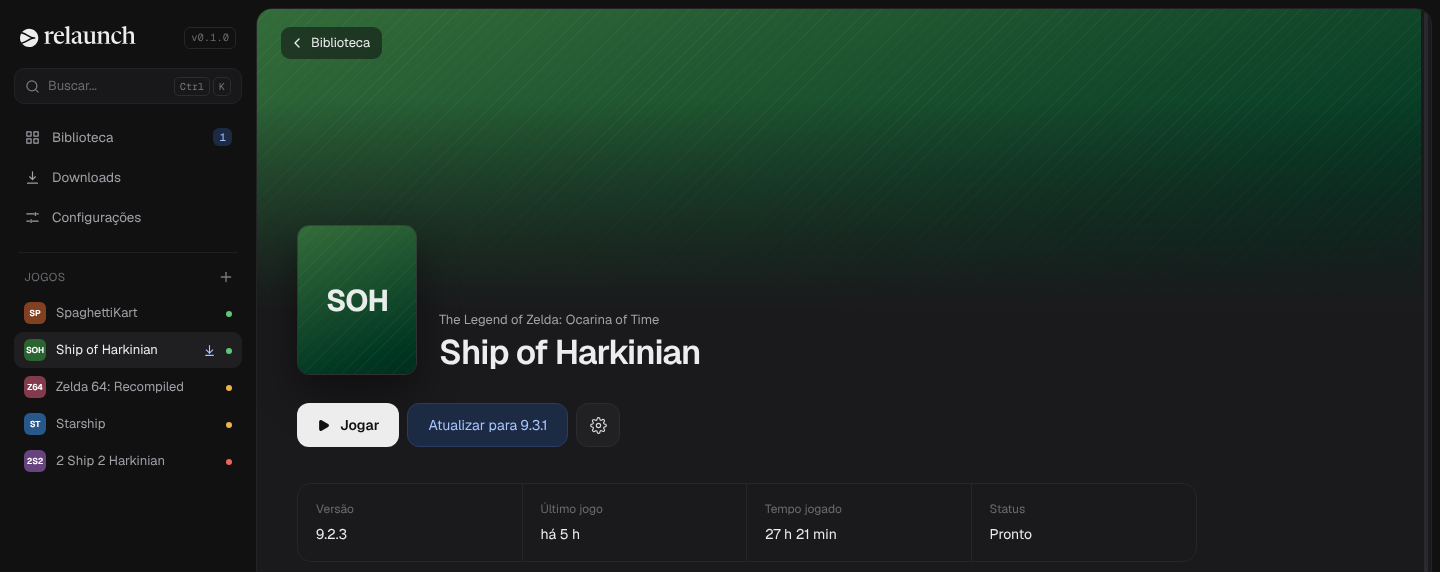
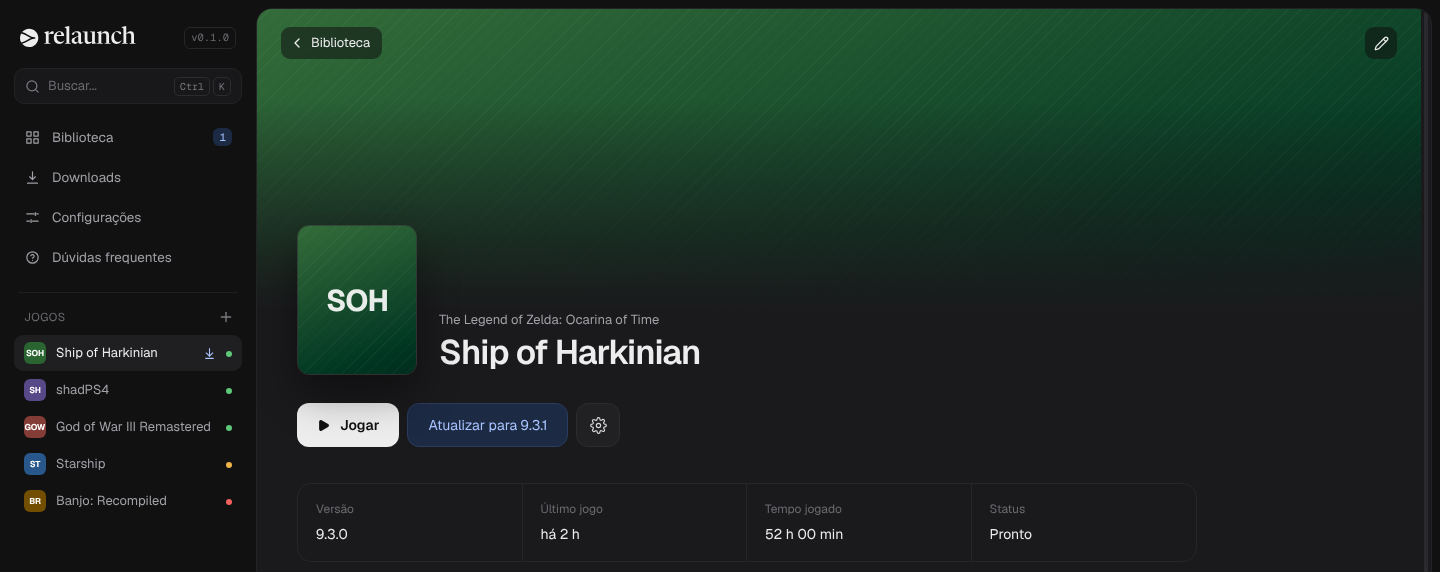
docs: prepara a versão 0.1.0 (data no CHANGELOG e capturas de tela atuais) (#14)
- CHANGELOG: a 0.1.0 fica com a data de lançamento, 2026-10-23.
- README: capturas novas da biblioteca, da página do jogo e do popup de novidades,
  e uma do catálogo com a busca "god of war", tiradas do app compilado com o
  catálogo real.

diff --git a/README.md b/README.md
@@ -13,7 +13,7 @@
 
 O Relaunch é um launcher para Windows e Linux que reúne os **ports e recompilações de jogos feitos por fãs**: Ship of Harkinian, Zelda 64: Recompiled, Starship e outros. Ele baixa o port do repositório oficial (ou usa o que você já instalou), mostra o que falta configurar, abre o jogo e mantém tudo atualizado a partir dos releases oficiais de cada projeto. A interface está em português (Brasil) e em inglês.
 
-![Biblioteca do Relaunch no tema escuro, com cinco jogos e o status de cada um](docs/screenshots/biblioteca.png)
+![Biblioteca do Relaunch no tema escuro, com cinco jogos (entre eles God of War III Remastered, via shadPS4) e o status de cada um](docs/screenshots/biblioteca.png)
 
 > [!IMPORTANT]
 > O Relaunch **nunca** baixa, distribui ou embute ROMs, assets ou qualquer arquivo com direitos autorais. Ele só usa arquivos que você já possui, e só baixa os binários publicados pelos próprios projetos, direto do repositório declarado no manifesto, via HTTPS.
@@ -66,6 +66,8 @@ O app traz **66 projetos** em listas por plataforma, as mesmas da tela **Adicion
 - **Port ou recompilação**: o jogo refeito para rodar direto no PC. O app baixa o port do repositório oficial; o conteúdo do jogo vem da sua ROM ou do seu disco.
 - **Emulador**: o programa que imita o console. O app instala o emulador uma vez, do repositório oficial dele.
 - **Jogo via emulador**: jogos grandes de console (como **God of War III Remastered**). O app abre o emulador com o **seu** jogo, o dump da sua cópia. O selo mostra quão bem ele roda hoje, pela lista de compatibilidade oficial do emulador: **Jogável**, **Roda com falhas** ou **Experimental**.
+
+![Tela Adicionar jogo com a busca "god of war": a lista PlayStation aberta mostra sete jogos, cada um com o emulador e o selo de compatibilidade](docs/screenshots/catalogo.png)
 
 > [!NOTE]
 > O Relaunch nunca baixa jogos, ROMs, BIOS ou firmware. Os jogos via emulador pedem um PC forte (processador recente e placa de vídeo com Vulkan).

diff --git a/CHANGELOG.md b/CHANGELOG.md
@@ -7,7 +7,7 @@ O conteúdo de cada versão é usado como nota do release no GitHub (`npm run re
 
 ## [Não lançado]
 
-## [0.1.0] - 2026-10-22
+## [0.1.0] - 2026-10-23
 
 ### Novidades
 
